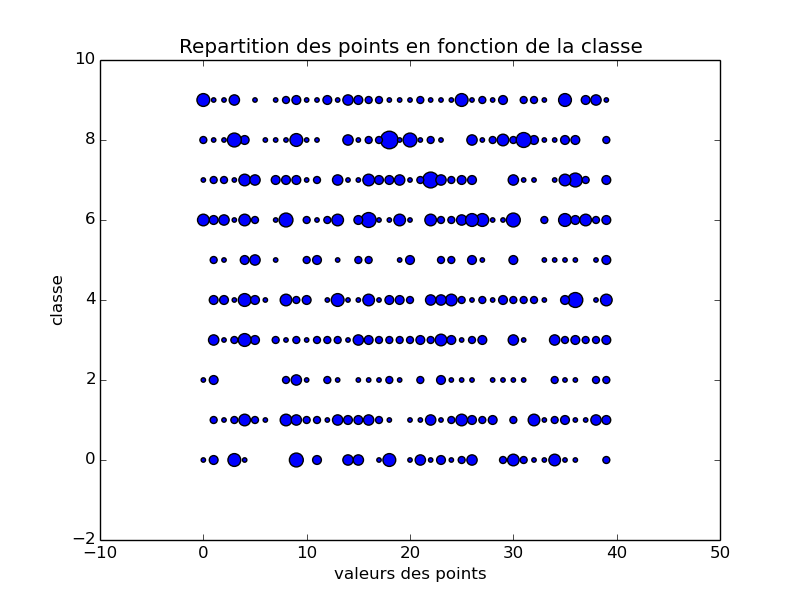
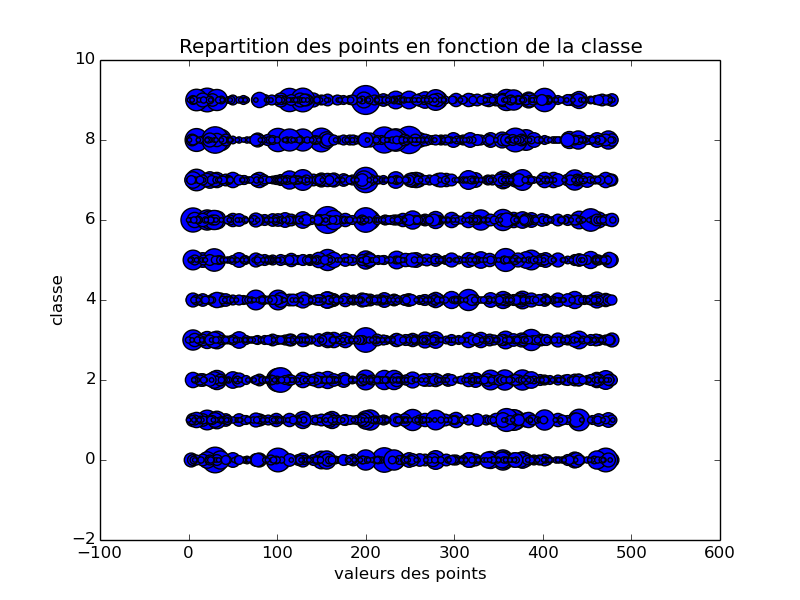
new scatter function

diff --git a/final2.py b/final2.py
@@ -15,17 +15,17 @@ from patcher import Patcher
 
 
 
-NUMBER_CLASSES = 50
+NUMBER_CLASSES = 250
 #number of patches per image
 NUMBER_PATCHES =  4
 #number of perdios for k means function
 NUMBER_PERIODS = 11
 #number of images to use for  the k means function
-NUMBER_K_MEANS = 500
+NUMBER_K_MEANS = 4500
 #number of data for training
-NUMBER_TRAIN = 1000
+NUMBER_TRAIN = 4500
 #number of data to evaluate our model
-NUMBER_TEST = 200
+NUMBER_TEST = 600
 #number of periods of the perceptron
 EPOQS = 60
 
@@ -203,6 +203,27 @@ def whiteningV2(liste):
     std_liste = np.std(tmp,axis=0)
     return list(tmp / std_liste)
 
+
+def debug_image(partitions):
+    dics = {}
+    for element in partitions:
+        points,val = element
+        if(val in dics):
+            dics[val].append(points)
+        else:
+            dics[val] = []
+            dics[val].append(points)
+    print("dico 0")
+    for i in dics[0]:
+            patcher.show_patches(np.array(i))
+    print("dico  2")
+    for i in dics[2]:
+            patcher.show_patches(np.array(i))
+    print("dico  9")
+    for i in dics[9]:
+            patcher.show_patches(np.array(i))
+    
+
 def construction_dictionnaire_n_patches(dictionnary,N):
     dico_random = choose_initiale(dictionnary['data'],N,dictionnary['labels'])
     mes_patches = []
@@ -212,7 +233,8 @@ def construction_dictionnaire_n_patches(dictionnary,N):
             mes_patches.append(whiteningV2(normalized(patches[j].astype(float))))
     random.seed(45)
     random.shuffle(mes_patches)
-    partitions,moyennes = kmeans2.kmeans(mes_patches,NUMBER_CLASSES,1,NUMBER_PERIODS)
+    partitions,moyennes = kmeans2.kmeans(mes_patches,NUMBER_CLASSES,150,NUMBER_PERIODS)
+    #debug_image(partitions)
     return moyennes
 
 
@@ -305,7 +327,7 @@ def plot_model(donnees,filename,dicos_test):
     plt.savefig(filename)
     plt.show()
 
-#plot_model(nouvelles_donnes,'ScatterPlot.png',dicos)
+plot_model(nouvelles_donnes,'ScatterPlot.png',dicos)
 
 pour_tests = unpickle("cifar-10-batches-py/data_batch_3")
 test_data = test_model(pour_tests ,elements_aleatoires_moyenne,NUMBER_TEST)
@@ -373,8 +395,8 @@ def learn_SVM(data_train,data_test):
     for i in range(len(predictions2)):
         if(predictions2[i]!=real_label[i]):
             taux_erreur2 +=1.0
-    print("taux d'erreurs en lineaire ", taux_erreur/float(len(data_train)))
-    print("taux d'erreurs en polynomiale ", taux_erreur2/float(len(data_train)))
+    print("taux d'erreurs en lineaire ",taux_erreur, taux_erreur/float(len(predictions)))
+    print("taux d'erreurs en polynomiale ",taux_erreur2, taux_erreur2/float(len(predictions2)))
 
 moyennes = learn_SVM(nouvelles_donnes,test_data)
 #------------------------ Perceptron utilisant les nouvelles donnes --------------------------

diff --git a/final.py b/final.py
@@ -10,21 +10,22 @@ import random
 import operator
 import matplotlib.pyplot as plt
 import kmeans
+from sklearn.feature_extraction import image
 
 
 
 
-NUMBER_CLASSES = 10
+NUMBER_CLASSES = 100
 #number of patches per image
 NUMBER_PATCHES =  4
 #number of perdios for k means function
-NUMBER_PERIODS = 25
+NUMBER_PERIODS = 5
 #number of images to use for  the k means function
-NUMBER_K_MEANS = 700
+NUMBER_K_MEANS = 1
 #number of data for training
-NUMBER_TRAIN = 700
+NUMBER_TRAIN = 5000
 #number of data to evaluate our model
-NUMBER_TEST = 700
+NUMBER_TEST = 5000
 #number of periods of the perceptron
 EPOQS = 100
 
@@ -110,32 +111,31 @@ def get_patches_from_image(image):
 def chunks(l, n):
     for i in xrange(0, len(l), n):
         yield l[i:i+n]
+
 '''
-def get_patches_from_image(image):
+def get_patches_from_image(image2):
     result = {}
     for i in range(NUMBER_PATCHES):
         result[i] = []
     tmp = []
     for i in range(1024):
-        tmp.append(image[i])
-        tmp.append(image[i+1024])
-        tmp.append(image[i+2048])
+        tmp.append(image2[i])
+        tmp.append(image2[i+1024])
+        tmp.append(image2[i+2048])
     tmp = np.array(tmp)
     tmp = tmp.reshape(32,96)
-    for i in range(NUMBER_PATCHES):
-        print("debut fin",(i%NUMBER_PATCHES),i)
     taille = 96/np.sqrt(NUMBER_PATCHES)
     taille2 = 32/np.sqrt(NUMBER_PATCHES)
-    for j in range(len(tmp)):
-        bdd = list(chunks(tmp[j],int(taille)))
-        count = 0
-        for e in bdd:
-            indice = int(round((j/taille2))+count)
-            result[indice] = result[indice]+list(e)
-            count +=1
+    print(taille,taille2)
+    patches =  image.extract_patches_2d(tmp, (int(taille2), int(taille)))
+    print(len(patches))
     return result
 '''
 
+
+
+
+'''
 def get_patches_from_image(image):
     result = {}
     for i in range(NUMBER_PATCHES):
@@ -166,8 +166,7 @@ def get_patches_from_image(image):
             k += nb
             tmp =  0
     return result
-
-'''
+''''''
 import numpy as numpy
 def get_patches_from_image(image):
     size_r = 5
@@ -210,8 +209,10 @@ elements_aleatoires_moyenne =  construction_dictionnaire_n_patches(dicos,NUMBER_
 
 #display_image(0,dicos)
 
-#show_image_after(get_patches_from_image(dicos['data'][0])[0])
-
+show_image_after(get_patches_from_image(dicos['data'][0])[0])
+show_image_after(get_patches_from_image(dicos['data'][0])[1])
+show_image_after(get_patches_from_image(dicos['data'][0])[2])
+show_image_after(get_patches_from_image(dicos['data'][0])[3])
 
 
 

diff --git a/patcher.py b/patcher.py
@@ -1,7 +1,8 @@
 import numpy as np
 import cPickle
 import matplotlib.pyplot as plt
-
+from pprint import pprint
+from scipy.cluster.vq import whiten
 
 class Patcher:
  
@@ -32,12 +33,11 @@ class Patcher:
             for j in xrange(0,self.number_patches):
                 tmp = after[i*self.sizeSquare:i*self.sizeSquare+self.sizeSquare,j*self.sizeSquare*3:j*self.sizeSquare*3+self.sizeSquare*3]
                 patches.append(tmp.reshape(self.sizeSquare*self.sizeSquare*3))
-        return list(patches)
+        return list(np.array(patches).astype('int'))
 
     def show_patches(self,patches):
         #print("l1",len(patches),len(patches[0]))
         tmp = np.array(patches)
-        print("debugf ",tmp.shape)
         to_display = []
         to_add = []
         count =0
@@ -70,5 +70,4 @@ class Patcher:
         to_display = np.array(to_display)
         plt.imshow(to_display)
         plt.show()
-
 
